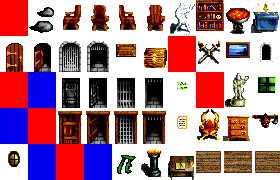
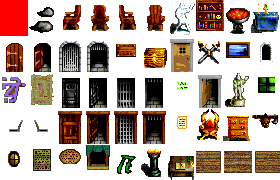
Continuing overlay cleanups, code simplification

Changed region(s): [[0.0, 0.3889, 0.4, 1.0], [0.6, 0.1944, 0.8, 0.6111]]

diff --git a/src/game/boe.specials.cpp b/src/game/boe.specials.cpp
@@ -1291,8 +1291,6 @@ short damage_monst(cCreature& victim, short who_hit, short how_much, eDamageType
 	short r1,which_spot;
 	location where_put;
 	
-	//print_num(which_m,(short)univ.town.monst[which_m].m_loc.x,(short)univ.town.monst[which_m].m_loc.y);
-	
 	if(victim.active == 0) return false;
 	
 	if(sound_type == 0) {
@@ -1530,6 +1528,13 @@ void kill_monst(cCreature& which_m,short who_killed,eMainStatus type) {
 	which_m.active = 0;
 }
 
+location executePush(location loc)
+{
+    ter_num_t ter = univ.town->terrain(loc.x,loc.y);
+    if(univ.scenario.ter_types[ter].special != eTerSpec::CONVEYOR) return loc;
+    return loc.push(univ.scenario.ter_types[ter].flag1);
+}
+
 // Pushes party and monsters around by moving walls and conveyor belts.
 // This is very fragile, and only hands a few cases.
 void push_things() {
@@ -1542,92 +1547,46 @@ void push_things() {
 	if(!univ.town.belt_present)
 		return;
 	
-	for(short i = 0; i < univ.town.monst.size(); i++)
-		if(univ.town.monst[i].active > 0) {
-			l = univ.town.monst[i].cur_loc;
-			ter = univ.town->terrain(l.x,l.y);
-			switch(univ.scenario.ter_types[ter].flag1) { // TODO: Implement the other 4 possible directions
-				case DIR_N: l.y--; break;
-				case DIR_E: l.x++; break;
-				case DIR_S: l.y++; break;
-				case DIR_W: l.x--; break;
-			}
-			if(l != univ.town.monst[i].cur_loc) {
-				univ.town.monst[i].cur_loc = l;
-				if((point_onscreen(center,univ.town.monst[i].cur_loc)) ||
+	for(auto& monst : univ.town.monst)
+		if(monst.active > 0) {
+			l = executePush(monst.cur_loc);
+			if(l != monst.cur_loc) {
+				monst.cur_loc = l;
+				if((point_onscreen(center,monst.cur_loc)) ||
 					(point_onscreen(center,l)))
 					redraw = true;
 			}
 		}
-	for(short i = 0; i < univ.town.items.size(); i++)
-		if(univ.town.items[i].variety != eItemType::NO_ITEM) {
-			l = univ.town.items[i].item_loc;
-			ter = univ.town->terrain(l.x,l.y);
-			switch(univ.scenario.ter_types[ter].flag1) { // TODO: Implement the other 4 possible directions
-				case DIR_N: l.y--; break;
-				case DIR_E: l.x++; break;
-				case DIR_S: l.y++; break;
-				case DIR_W: l.x--; break;
-			}
-			if(l != univ.town.items[i].item_loc) {
-				univ.town.items[i].item_loc = l;
-				if((point_onscreen(center,univ.town.items[i].item_loc)) ||
+	for(auto& item : univ.town.items)
+		if(item.variety != eItemType::NO_ITEM) {
+			l = executePush(item.item_loc);
+			if(l != item.item_loc) {
+				item.item_loc = l;
+				if((point_onscreen(center,item.item_loc)) ||
 					(point_onscreen(center,l)))
 					redraw = true;
 			}
 		}
 	
 	if(is_town()) {
-		ter = univ.town->terrain(univ.party.town_loc.x,univ.party.town_loc.y);
-		l = univ.party.town_loc;
-		switch(univ.scenario.ter_types[ter].flag1) { // TODO: Implement the other 4 possible directions
-			case DIR_N: l.y--; break;
-			case DIR_E: l.x++; break;
-			case DIR_S: l.y++; break;
-			case DIR_W: l.x--; break;
-		}
+		l = executePush(univ.party.town_loc);
 		if(l != univ.party.town_loc) {
 			// TODO: Will this push you into a placed forcecage or barrier? Should it?
 			ASB("You get pushed.");
-			if(univ.scenario.ter_types[ter].special == eTerSpec::CONVEYOR)
-				draw_terrain(0);
+			draw_terrain(0);
 			center = l;
 			univ.party.town_loc = l;
 			update_explored(l);
-			ter = univ.town->terrain(univ.party.town_loc.x,univ.party.town_loc.y);
 			draw_map(true);
 			if(fields::PushableObjects::crashContainer(univ.town,univ.party.town_loc))
 				hit_party(get_ran(1,1,6),eDamageType::WEAPON);
-			/*if(univ.town.testField<fields::OBJECT_BARREL>(univ.party.town_loc.x,univ.party.town_loc.y)) {
-				univ.town.clearFields<fields::OBJECT_BARREL>(univ.party.town_loc.x,univ.party.town_loc.y);
-				ASB("You smash the barrel.");
-			}
-			if(univ.town.testField<fields::OBJECT_CRATE>(univ.party.town_loc.x,univ.party.town_loc.y)) {
-				univ.town.clearFields<fields::OBJECT_CRATE>(univ.party.town_loc.x,univ.party.town_loc.y);
-				ASB("You smash the crate.");
-			}
-			if(univ.town.testField<fields::OBJECT_BLOCK>(univ.party.town_loc.x,univ.party.town_loc.y)) {
-				ASB("You crash into the block.");
-				hit_party(get_ran(1, 1, 6), eDamageType::WEAPON);
-			}
-			for(short k = 0; k < univ.town.items.size(); k++)
-				if(univ.town.items[k].variety != eItemType::NO_ITEM && univ.town.items[k].held
-				   && (univ.town.items[k].item_loc == univ.party.town_loc))
-					univ.town.items[k].contained = univ.town.items[k].held = false;*/
 			redraw = true;
 		}
 	}
 	if(is_combat()) {
 		for(short i = 0; i < 6; i++)
 			if(univ.party[i].main_status == eMainStatus::ALIVE) {
-				ter = univ.town->terrain(univ.party[i].combat_pos.x,univ.party[i].combat_pos.y);
-				l = univ.party[i].combat_pos;
-				switch(univ.scenario.ter_types[ter].flag1) { // TODO: Implement the other 4 possible directions
-					case DIR_N: l.y--; break;
-					case DIR_E: l.x++; break;
-					case DIR_S: l.y++; break;
-					case DIR_W: l.x--; break;
-				}
+				l = executePush(univ.party[i].combat_pos);
 				if(l != univ.party[i].combat_pos) {
 					ASB("Someone gets pushed.");
 					ter = univ.town->terrain(l.x,l.y);
@@ -1638,23 +1597,6 @@ void push_things() {
 					draw_map(true);
 		          	        if(fields::PushableObjects::crashContainer(univ.town,univ.party[i].combat_pos))
 				            damage_pc(univ.party[i],get_ran(1,1,6),eDamageType::WEAPON,eRace::UNKNOWN,0);
-
-					/*if(univ.town.testField<fields::OBJECT_BARREL>(univ.party[i].combat_pos.x,univ.party[i].combat_pos.y)) {
-						univ.town.clearFields<fields::OBJECT_BARREL>(univ.party[i].combat_pos.x,univ.party[i].combat_pos.y);
-						ASB("You smash the barrel.");
-					}
-					if(univ.town.testField<fields::OBJECT_CRATE>(univ.party[i].combat_pos.x,univ.party[i].combat_pos.y)) {
-						univ.town.clearFields<fields::OBJECT_CRATE>(univ.party[i].combat_pos.x,univ.party[i].combat_pos.y);
-						ASB("You smash the crate.");
-					}
-					if(univ.town.testField<fields::OBJECT_BLOCK>(univ.party[i].combat_pos.x,univ.party[i].combat_pos.y)) {
-						ASB("You crash into the block.");
-						damage_pc(univ.party[i],get_ran(1, 1, 6), eDamageType::WEAPON,eRace::UNKNOWN,0);
-					}
-					for(short k = 0; k < univ.town.items.size(); k++)
-						if(univ.town.items[k].variety != eItemType::NO_ITEM && univ.town.items[k].held
-						   && (univ.town.items[k].item_loc == univ.party[i].combat_pos))
-							univ.town.items[k].contained = univ.town.items[k].held = false;*/
 					redraw = true;
 				}
 			}
@@ -1698,12 +1640,9 @@ void special_increase_age(long length, bool queue) {
 					univ.party.job_banks.resize(bank + 1);
 				int add_anger = 1;
 				if(quest.flags % 10 == 1) {
-					if(quest.deadline < 20)
-						add_anger++;
-					if(quest.deadline < 10)
-						add_anger++;
-					if(quest.deadline < 5)
-						add_anger++;
+					if(quest.deadline < 20) add_anger++;
+					if(quest.deadline < 10) add_anger++;
+					if(quest.deadline < 5) add_anger++;
 				} else if(quest.deadline - p.second.start > 20)
 					add_anger++;
 				univ.party.job_banks[bank].anger += add_anger;

diff --git a/src/game/boe.combat.cpp b/src/game/boe.combat.cpp
@@ -706,14 +706,7 @@ void pc_attack_weapon(short who_att,iLiving& target,short hit_adj,short dam_adj,
 	cPlayer& attacker = univ.party[who_att];
 	
 	// safety valve
-	int skill;
-	if(weap.weap_type == eSkill::INVALID)
-		skill = attacker.skill(eSkill::EDGED_WEAPONS);
-	else if(weap.weap_type == eSkill::MAX_HP)
-		skill = 20 * attacker.cur_health / attacker.max_health;
-	else if(weap.weap_type == eSkill::MAX_SP)
-		skill = 20 * attacker.cur_sp / attacker.max_sp;
-	else skill = attacker.skill(weap.weap_type);
+	int skill = attacker.getWeaponSkill(weap.weap_type);
 	
 	std::string create_line = attacker.name + " swings.";
 	add_string_to_buf(create_line);
@@ -739,25 +732,17 @@ void pc_attack_weapon(short who_att,iLiving& target,short hit_adj,short dam_adj,
 	
 	r2 = get_ran(1,1,weap.item_level) + dam_adj + weap.bonus;
 	if(primary) r2 += 2; else r2 -= 1;
+
 	if(weap.ability == eItemAbil::WEAK_WEAPON)
 		r2 = (r2 * (10 - weap.abil_data[0])) / 10;
-	if(weap.ability == eItemAbil::HP_DAMAGE)
-		r2 = std::max<short>(1, double(r2) * double(attacker.cur_health) / double(attacker.max_health));
-	if(weap.ability == eItemAbil::SP_DAMAGE)
-		r2 = std::max<short>(1, double(r2) * double(attacker.cur_sp) / double(attacker.max_sp));
-	if(weap.ability == eItemAbil::HP_DAMAGE_REVERSE)
-		r2 += double(weap.abil_data[0]) * (1.0 - double(attacker.cur_health) / double(attacker.max_health));
-	if(weap.ability == eItemAbil::SP_DAMAGE_REVERSE)
-		r2 += double(weap.abil_data[0]) * (1.0 - double(attacker.cur_sp) / double(attacker.max_sp));
-	
-	if(cPlayer* pc_target = dynamic_cast<cPlayer*>(&target)) {
+	if(weap.ability == eItemAbil::HP_DAMAGE) r2 = attacker.modDamageByHSP(r2);
+	if(weap.ability == eItemAbil::SP_DAMAGE) r2 = attacker.modDamageByHSP<true>(r2);
+	if(weap.ability == eItemAbil::HP_DAMAGE_REVERSE) r2 += attacker.modDamageByHSP<false,true>(weap.abil_data[0]);
+	if(weap.ability == eItemAbil::SP_DAMAGE_REVERSE) r2 += attacker.modDamageByHSP<true,true>(weap.abil_data[0]);
+
+	if(cPlayer* pc_target = dynamic_cast<cPlayer*>(&target)) r1 += pc_target->pcEvasion();
 		// PCs get some additional defensive perks
 		// These calculations were taken straight from the monster-on-PC attack code
-		r1 += 5 * pc_target->stat_adj(eSkill::DEXTERITY);
-		r1 += pc_target->get_prot_level(eItemAbil::EVASION);
-		if(pc_target->parry < 100)
-			r1 += 5 * pc_target->parry;
-	}
 	
 	if(weap.ability == eItemAbil::EXPLODING_WEAPON) {
 		add_string_to_buf("  The weapon produces an explosion!");
@@ -1698,21 +1683,15 @@ void load_missile() {
 
 void fire_missile(location target) {
 	missile_firer = univ.cur_pc; // This may be used by monsters to help pick a target
-	short r1, r2, skill, dam, dam_bonus, hit_bonus = 0, range, spec_dam = 0,poison_amt = 0;
+	short r1, r2, dam, dam_bonus, hit_bonus = 0, range, spec_dam = 0,poison_amt = 0;
 	short skill_item;
 	iLiving* victim;
 	bool exploding = false;
 	cPlayer& missile_firer = univ.current_pc();
 	cItem& missile = missile_firer.items[missile_inv_slot];
 	cItem& ammo = missile_firer.items[ammo_inv_slot];
-	
-	if(missile.weap_type == eSkill::INVALID)
-		skill = missile_firer.skill(eSkill::ARCHERY);
-	else if(missile.weap_type == eSkill::MAX_HP)
-		skill = 20 * missile_firer.cur_health / missile_firer.max_health;
-	else if(missile.weap_type == eSkill::MAX_SP)
-		skill = 20 * missile_firer.cur_sp / missile_firer.max_sp;
-	else skill = missile_firer.skill(missile.weap_type);
+	int skill = missile_firer.getWeaponSkill(missile.weap_type,eSkill::ARCHERY);
+
 	range = (overall_mode == MODE_FIRING) ? 12 : 8;
 	dam = ammo.item_level;
 	dam_bonus = ammo.bonus + minmax(-8,8,missile_firer.status[eStatus::BLESS_CURSE]);
@@ -1793,14 +1772,10 @@ void fire_missile(location target) {
 			r2 = get_ran(1,1,dam) + dam_bonus;
 			if(ammo.ability == eItemAbil::WEAK_WEAPON)
 				r2 = (r2 * (10 - ammo.abil_data[0])) / 10;
-			if(ammo.ability == eItemAbil::HP_DAMAGE)
-				r2 = std::max<short>(1, double(r2) * double(missile_firer.cur_health) / double(missile_firer.max_health));
-			if(ammo.ability == eItemAbil::SP_DAMAGE)
-				r2 = std::max<short>(1, double(r2) * double(missile_firer.cur_sp) / double(missile_firer.max_sp));
-			if(ammo.ability == eItemAbil::HP_DAMAGE_REVERSE)
-				r2 += double(ammo.abil_data[0]) * (1.0 - double(missile_firer.cur_health) / double(missile_firer.max_health));
-			if(ammo.ability == eItemAbil::SP_DAMAGE_REVERSE)
-				r2 += double(ammo.abil_data[0]) * (1.0 - double(missile_firer.cur_sp) / double(missile_firer.max_sp));
+			if(ammo.ability == eItemAbil::HP_DAMAGE) r2 = missile_firer.modDamageByHSP(r2);
+			if(ammo.ability == eItemAbil::SP_DAMAGE) r2 = missile_firer.modDamageByHSP<true>(r2);
+			if(ammo.ability == eItemAbil::HP_DAMAGE_REVERSE) r2 += missile_firer.modDamageByHSP<false,true>(ammo.abil_data[0]);
+			if(ammo.ability == eItemAbil::SP_DAMAGE_REVERSE) r2 += missile_firer.modDamageByHSP<true,true>(ammo.abil_data[0]);
 			std::string create_line = missile_firer.name + " fires.";
 			add_string_to_buf(create_line);
 			

diff --git a/src/universe/pc.hpp b/src/universe/pc.hpp
@@ -71,6 +71,28 @@ class cPlayer : public iLiving {
 	cInvenSlot find_item_matching(Fcn fcn);
 	static const int INVENTORY_SIZE = 24;
 public:
+	int getWeaponSkill(eSkill skillNum, const eSkill def = eSkill::EDGED_WEAPONS) const
+	{
+            if(skillNum == eSkill::INVALID) return skills[def];
+	    else if(skillNum == eSkill::MAX_HP)
+		return static_cast<int>(20.0 * static_cast<float>(cur_health) / static_cast<float>(max_health));
+	    else if(skillNum == eSkill::MAX_SP)
+		return static_cast<int>(20.0 * static_cast<float>(cur_sp) / static_cast<float>(max_sp));
+	    else return skill(skillNum);
+	}
+	template<bool SP = false, bool Reverse = false> short modDamageByHSP(short start) const
+	{
+	    double frac = double(SP ? cur_sp : cur_health) / double(SP ? max_sp : max_health);
+	    if(Reverse) frac = 1.0 - frac;
+	    return std::max<short>(1,double(start)*frac);
+	}
+	int pcEvasion() const
+	{
+		int r = 5 * stat_adj(eSkill::DEXTERITY);
+		r += get_prot_level(eItemAbil::EVASION);
+		if(parry < 100) r += 5 * parry;
+		return r;
+	}
 	// A nice convenient bitset with just the low 30 bits set, for initializing spells
 	static const uint32_t basic_spells;
 	static void(* give_help)(short,short);

diff --git a/src/location.hpp b/src/location.hpp
@@ -40,6 +40,21 @@ struct location {
 	operator typename sf::template Vector2<T>() {
 		return sf::Vector2<T>(x,y);
 	}
+	location& push(short dir)
+	{
+            switch(dir)
+            {
+            case DIR_N: y--; break;
+            case DIR_NE: y--; x++; break;
+            case DIR_E: x++; break;
+            case DIR_SE: y++; x++; break;
+            case DIR_S: y++; break;
+            case DIR_SW: y++; x--; break;
+            case DIR_W: x--; break;
+            case DIR_NW: x--; y--; break;
+            }
+            return *this;
+	}
 };
 
 struct loc_compare {

diff --git a/src/scenedit/scen.fileio.cpp b/src/scenedit/scen.fileio.cpp
@@ -396,6 +396,9 @@ void writeTerrainToXml(ticpp::Printer&& data, cScenario& scenario) {
 		data.PushElement("ground", ter.ground_type);
 		data.PushElement("trim-for", ter.trim_ter);
 		data.PushElement("arena", ter.combat_arena);
+		if(ter.tint) data.PushElement("tint", ter.tint);
+		if(ter.overlayPic) data.PushElement("overlay",ter.overlayPic);
+		if(ter.overlayTint) data.PushElement("overlayTint",ter.overlayTint);
 		
 		data.OpenElement("special");
 		data.PushElement("type", ter.special);
